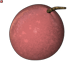
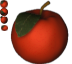
! Wompfbeerenbaum funktioniert jetzt

diff --git a/ClonkMars.c4d/Vegetation.c4d/Tree7.c4d/Script.c b/ClonkMars.c4d/Vegetation.c4d/Tree7.c4d/Script.c
@@ -10,7 +10,7 @@ private func ReproductionRate()     { return(1000); }
 private func MaxTreeCount()         { return(15); }
 private func TreeStrength()  { return(40); }
 private func FruitRate()     { return(15); }
-private func FruitID()       { return(WOPF); }
+private func FruitID()       { return(WMPF); }
 private func MaxFruitCount() { return(4); }
 
 private func Seed()		// alle 350 Frames
